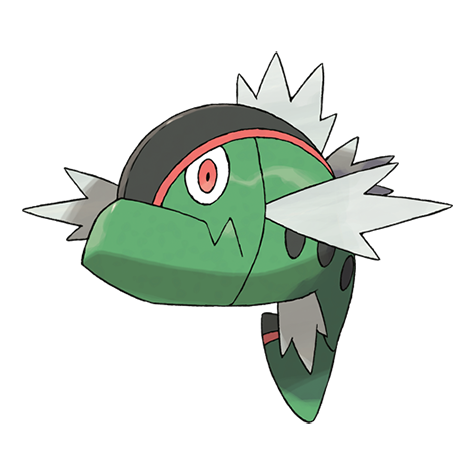
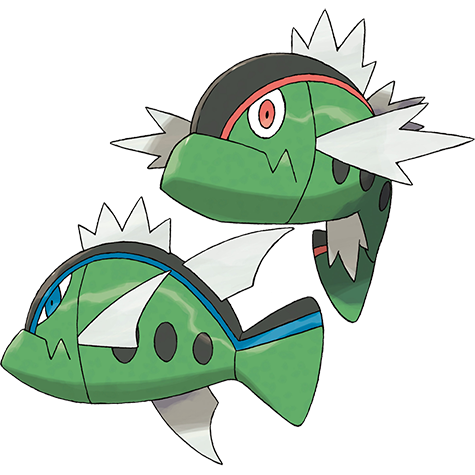
Added fish

diff --git a/src/main/java/com/MikeTheShadow/PokeBotMain/Utils/GeneratePokedex.java b/src/main/java/com/MikeTheShadow/PokeBotMain/Utils/GeneratePokedex.java
@@ -1,13 +1,44 @@
 package com.MikeTheShadow.PokeBotMain.Utils;
+
+import com.MikeTheShadow.PokeBotMain.Main;
+import com.MikeTheShadow.PokeBotMain.MainPokeBotWindow;
+
 import javax.imageio.ImageIO;
 import java.awt.image.BufferedImage;
 import java.io.*;
 import java.util.ArrayList;
 import java.util.List;
 
-public class GeneratePokedex
+public class GeneratePokedex implements Runnable
 {
+    private  Thread thread;
+    private String threadName;
     private List<PokemonData> pokemonData = new ArrayList<>();
+    public GeneratePokedex(String name)
+    {
+        this.threadName = name;
+    }
+    public void run()
+    {
+        File dex = new File("pokedex.dat");
+        if(!dex.exists())
+        {
+            Main.Output("Dex does not exist generating...");
+            generateNewDex();
+            Main.Output("Dex created!");
+        }
+        pokemonData = loadPokedex();
+        Main.Output("DEBUG: dex size = " + pokemonData.size());
+        Main.StartMainThread();
+    }
+    public void start()
+    {
+        if(thread == null)
+        {
+            thread = new Thread(this,threadName);
+            thread.start();
+        }
+    }
     public List<PokemonData> loadPokedex()
     {
 
@@ -24,22 +55,26 @@ public class GeneratePokedex
         }
         return this.pokemonData;
     }
-    public void start()
+    public void generateNewDex()
     {
         File folder = new File("pokedex");
         File[] pokemonIndex = folder.listFiles();
         assert pokemonIndex != null;
+
+        MainPokeBotWindow.pokemonLoadingBar.setMaximum(pokemonIndex.length);
+        MainPokeBotWindow.pokemonLoadingBar.setValue(0);
         for (File pokemon : pokemonIndex)
         {
             try
             {
-                //typenull
                 String pokename = pokemon.getName().substring(0, pokemon.getName().length() - 4).toLowerCase();
+                MainPokeBotWindow.loadImagelabel.setText("Loading image: " + pokename);
                 if(pokename.equals("typenull"))
                 {
                     pokename = "type: null";
                 }
                 CustomImageReader(ImageIO.read(pokemon), pokename);
+                MainPokeBotWindow.pokemonLoadingBar.setValue(MainPokeBotWindow.pokemonLoadingBar.getValue() + 1);
             } catch (IOException e)
             {
                 e.printStackTrace();

diff --git a/src/main/java/com/MikeTheShadow/PokeBotMain/MainPokeBotWindow.java b/src/main/java/com/MikeTheShadow/PokeBotMain/MainPokeBotWindow.java
@@ -2,16 +2,11 @@ package com.MikeTheShadow.PokeBotMain;
 
 import java.awt.EventQueue;
 
-import javax.swing.JFrame;
+import javax.swing.*;
 import java.awt.List;
-import javax.swing.JTabbedPane;
-import javax.swing.JDesktopPane;
 import java.awt.Color;
 import java.awt.Button;
 import java.awt.Font;
-import javax.swing.JCheckBox;
-import javax.swing.JTextField;
-import javax.swing.JLabel;
 import java.awt.event.MouseAdapter;
 import java.awt.event.MouseEvent;
 import java.io.IOException;
@@ -28,8 +23,9 @@ public class MainPokeBotWindow
     static JCheckBox ShowOnlyWhitelisted;
     static JTextField SpamBox;
     static JTextField channelBox,tokenBox;
-
+    public static JProgressBar pokemonLoadingBar;
     private JFrame frmPokecordmain;
+    public static JLabel loadImagelabel;
     static List output;
     /**
      * Launch the application.
@@ -99,14 +95,20 @@ public class MainPokeBotWindow
                 {
                     //TODO find the error that gets thrown here and call the restart func
                     e.printStackTrace();
-                    System.out.println("Still trying");
-                    //System.out.println("restarting...");
-                    //Restart restartThread = new Restart("restartThread");
-                    //restartThread.run();
+                    Main.Output("Program crashed restart");
                 }
 
             }
         });
+
+        //Loading bar to load data
+        pokemonLoadingBar = new JProgressBar();
+        pokemonLoadingBar.setBounds(575, 571, 195, 27);
+        PokeCordMainTab.add(pokemonLoadingBar);
+        //loading bar label
+        loadImagelabel = new JLabel("Loading image:");
+        loadImagelabel.setBounds(575, 546, 200, 14);
+        PokeCordMainTab.add(loadImagelabel);
 
         JLabel lblPokebot = new JLabel("PokeBot 1.0");
         lblPokebot.setFont(new Font("Tahoma", Font.PLAIN, 51));
@@ -197,7 +199,6 @@ public class MainPokeBotWindow
         JLabel lblToken = new JLabel("TOKEN");
         lblToken.setBounds(6, 86, 73, 14);
         SettingsTab.add(lblToken);
-
         //Load setup
         try
         {

diff --git a/src/main/java/com/MikeTheShadow/PokeBotMain/Main.java b/src/main/java/com/MikeTheShadow/PokeBotMain/Main.java
@@ -6,11 +6,13 @@ import net.dv8tion.jda.api.AccountType;
 import net.dv8tion.jda.api.JDA;
 import net.dv8tion.jda.api.JDABuilder;
 import net.dv8tion.jda.api.entities.TextChannel;
+
+import javax.security.auth.login.LoginException;
 import java.io.*;
 import java.text.SimpleDateFormat;
 import java.util.*;
 
-class Main
+public class Main
 {
     static JDA api;
     static List<String> whitelist = new ArrayList<>();
@@ -31,35 +33,34 @@ class Main
     //restart booleans etc
     static boolean restarting = false;
 
-    static void Start() throws Exception
+    static void Start()
     {
         //Load the user/legendary lists
         LoadLists();
-        GenDex();
-        api = new JDABuilder(AccountType.CLIENT).setToken(TOKEN).build();
-        api.addEventListener(new Listener());
+        GeneratePokedex genDex = new GeneratePokedex("genDex");
+        genDex.start();
     }
-    private static void GenDex()
+    public static void StartMainThread()
     {
-        GeneratePokedex genDex = new GeneratePokedex();
-        File dex = new File("pokedex.dat");
-        if(!dex.exists())
+        try
         {
-            Main.Output("Dex does not exist generating...");
-            genDex.start();
-            Main.Output("Dex created!");
+            api = new JDABuilder(AccountType.CLIENT).setToken(TOKEN).build();
+            api.addEventListener(new Listener());
         }
-        pokemonData = genDex.loadPokedex();
-        Output("DEBUG: dex size = " + pokemonData.size());
+        catch (Exception e)
+        {
+            e.printStackTrace();
+        }
+
     }
-    static void Output(String output)
+    public static void Output(String output)
     {
         Calendar cal = Calendar.getInstance();
         SimpleDateFormat sdf = new SimpleDateFormat("HH:mm:ss");
         MainPokeBotWindow.output.add(sdf.format(cal.getTime()) + ": " + output);
     }
 
-    static boolean LoadSetup() throws Exception
+    public static boolean LoadSetup() throws Exception
     {
         Main.Output("Loading properties file...");
         Properties properties = new Properties();
